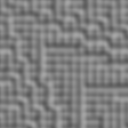
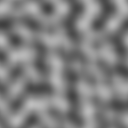
正确输出噪声

diff --git a/computer_pipeline/src/main.rs b/computer_pipeline/src/main.rs
@@ -82,9 +82,9 @@ fn gen_noise(state: &State){
     let size = 128;
 
     let input_data = GenNoiseInput{
-        seed: 114,
+        seed: 514,
         size,
-        frequency: 16,
+        frequency: 8,
         fbm_time: 1,
     };
     let input_buffer = Buffer::from_data(
